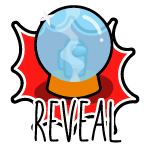
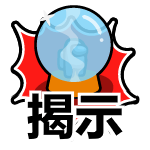
Update for v4.4.0

diff --git a/TheOtherRoles/CustomOptionHolder.cs b/TheOtherRoles/CustomOptionHolder.cs
@@ -766,32 +766,32 @@ namespace TheOtherRoles {
             huntedShieldNumber = CustomOption.Create(3026, Types.HideNSeekRoles, cs(Color.gray, "獵物盾數量"), 3f, 1f, 15f, 1f);
 
             // Prop Hunt General Options
-            propHuntMap = CustomOption.Create(4020, Types.PropHunt, cs(Color.yellow, "Map"), new string[] { "The Skeld", "Mira", "Polus", "Airship", "Submerged", "LI Map"}, null, true, onChange: ()=> { int map = propHuntMap.selection; if (map >= 3) map++; GameOptionsManager.Instance.currentNormalGameOptions.MapId = (byte)map;});
-            propHuntTimer = CustomOption.Create(4021, Types.PropHunt, cs(Color.yellow, "Timer In Min"), 5f, 1f, 30f, 0.5f);
-            propHuntUnstuckCooldown = CustomOption.Create(4011, Types.PropHunt, cs(Color.yellow, "Unstuck Cooldown"), 30f, 2.5f, 60f, 2.5f);
-            propHuntUnstuckDuration = CustomOption.Create(4012, Types.PropHunt, cs(Color.yellow, "Unstuck Duration"), 2f, 1f, 60f, 1f);
-            propHunterVision = CustomOption.Create(4006, Types.PropHunt, cs(Color.yellow, "Hunter Vision"), 0.5f, 0.25f, 2f, 0.25f);
-            propVision = CustomOption.Create(4007, Types.PropHunt, cs(Color.yellow, "Prop Vision"), 2f, 0.25f, 5f, 0.25f);
+            propHuntMap = CustomOption.Create(4020, Types.PropHunt, cs(Color.yellow, "地圖"), new string[] { "The Skeld", "Mira", "Polus", "Airship", "Submerged", "LI Map"}, null, true, onChange: ()=> { int map = propHuntMap.selection; if (map >= 3) map++; GameOptionsManager.Instance.currentNormalGameOptions.MapId = (byte)map;});
+            propHuntTimer = CustomOption.Create(4021, Types.PropHunt, cs(Color.yellow, "倒數計時(分)"), 5f, 1f, 30f, 0.5f);
+            propHuntUnstuckCooldown = CustomOption.Create(4011, Types.PropHunt, cs(Color.yellow, "出竅冷卻"), 30f, 2.5f, 60f, 2.5f);
+            propHuntUnstuckDuration = CustomOption.Create(4012, Types.PropHunt, cs(Color.yellow, "出竅持續時間"), 2f, 1f, 60f, 1f);
+            propHunterVision = CustomOption.Create(4006, Types.PropHunt, cs(Color.yellow, "獵人視野"), 0.5f, 0.25f, 2f, 0.25f);
+            propVision = CustomOption.Create(4007, Types.PropHunt, cs(Color.yellow, "物品視野"), 2f, 0.25f, 5f, 0.25f);
             // Hunter Options
-            propHuntNumberOfHunters = CustomOption.Create(4000, Types.PropHunt, cs(Color.red, "Number Of Hunters"), 1f, 1f, 5f, 1f, null, true);
-            hunterInitialBlackoutTime = CustomOption.Create(4001, Types.PropHunt, cs(Color.red, "Hunter Initial Blackout Duration"), 10f, 5f, 20f, 1f);
-            hunterMissCooldown = CustomOption.Create(4004, Types.PropHunt, cs(Color.red, "Kill Cooldown After Miss"), 10f, 2.5f, 60f, 2.5f);
-            hunterHitCooldown = CustomOption.Create(4005, Types.PropHunt, cs(Color.red, "Kill Cooldown After Hit"), 10f, 2.5f, 60f, 2.5f);
-            propHuntRevealCooldown = CustomOption.Create(4008, Types.PropHunt, cs(Color.red, "Reveal Prop Cooldown"), 30f, 10f, 90f, 2.5f);
-            propHuntRevealDuration = CustomOption.Create(4009, Types.PropHunt, cs(Color.red, "Reveal Prop Duration"), 5f, 1f, 60f, 1f);
-            propHuntRevealPunish = CustomOption.Create(4010, Types.PropHunt, cs(Color.red, "Reveal Time Punish"), 10f, 0f, 1800f, 5f);
-            propHuntAdminCooldown = CustomOption.Create(4022, Types.PropHunt, cs(Color.red, "Hunter Admin Cooldown"), 30f, 2.5f, 1800f, 2.5f);
-            propHuntFindCooldown = CustomOption.Create(4023, Types.PropHunt, cs(Color.red, "Find Cooldown"), 60f, 2.5f, 1800f, 2.5f);
-            propHuntFindDuration = CustomOption.Create(4024, Types.PropHunt, cs(Color.red, "Find Duration"), 5f, 1f, 15f, 1f);
+            propHuntNumberOfHunters = CustomOption.Create(4000, Types.PropHunt, cs(Color.red, "獵人數量"), 1f, 1f, 5f, 1f, null, true);
+            hunterInitialBlackoutTime = CustomOption.Create(4001, Types.PropHunt, cs(Color.red, "獵人初始暗幕持續時間"), 10f, 5f, 20f, 1f);
+            hunterMissCooldown = CustomOption.Create(4004, Types.PropHunt, cs(Color.red, "擊殺失手後冷卻"), 10f, 2.5f, 60f, 2.5f);
+            hunterHitCooldown = CustomOption.Create(4005, Types.PropHunt, cs(Color.red, "擊殺擊中後冷卻"), 10f, 2.5f, 60f, 2.5f);
+            propHuntRevealCooldown = CustomOption.Create(4008, Types.PropHunt, cs(Color.red, "揭示物品冷卻"), 30f, 10f, 90f, 2.5f);
+            propHuntRevealDuration = CustomOption.Create(4009, Types.PropHunt, cs(Color.red, "揭示物品持續時間"), 5f, 1f, 60f, 1f);
+            propHuntRevealPunish = CustomOption.Create(4010, Types.PropHunt, cs(Color.red, "揭示物品懲罰"), 10f, 0f, 1800f, 5f);
+            propHuntAdminCooldown = CustomOption.Create(4022, Types.PropHunt, cs(Color.red, "獵人管理表冷卻"), 30f, 2.5f, 1800f, 2.5f);
+            propHuntFindCooldown = CustomOption.Create(4023, Types.PropHunt, cs(Color.red, "搜尋冷卻"), 60f, 2.5f, 1800f, 2.5f);
+            propHuntFindDuration = CustomOption.Create(4024, Types.PropHunt, cs(Color.red, "搜尋持續時間"), 5f, 1f, 15f, 1f);
             // Prop Options
-            propBecomesHunterWhenFound = CustomOption.Create(4003, Types.PropHunt, cs(Palette.CrewmateBlue, "Props Become Hunters When Found"), false, null, true);
-            propHuntInvisEnabled = CustomOption.Create(4013, Types.PropHunt, cs(Palette.CrewmateBlue, "Invisibility Enabled"), true, null, true);
-            propHuntInvisCooldown = CustomOption.Create(4014, Types.PropHunt, cs(Palette.CrewmateBlue, "Invisibility Cooldown"), 120f, 10f, 1800f, 2.5f, propHuntInvisEnabled);
-            propHuntInvisDuration = CustomOption.Create(4015, Types.PropHunt, cs(Palette.CrewmateBlue, "Invisibility Duration"), 5f, 1f, 30f, 1f, propHuntInvisEnabled);
-            propHuntSpeedboostEnabled = CustomOption.Create(4016, Types.PropHunt, cs(Palette.CrewmateBlue, "Speedboost Enabled"), true, null, true);
-            propHuntSpeedboostCooldown = CustomOption.Create(4017, Types.PropHunt, cs(Palette.CrewmateBlue, "Speedboost Cooldown"), 60f, 2.5f, 1800f, 2.5f, propHuntSpeedboostEnabled);
-            propHuntSpeedboostDuration = CustomOption.Create(4018, Types.PropHunt, cs(Palette.CrewmateBlue, "Speedboost Duration"), 5f, 1f, 15f, 1f, propHuntSpeedboostEnabled);
-            propHuntSpeedboostSpeed = CustomOption.Create(4019, Types.PropHunt, cs(Palette.CrewmateBlue, "Speedboost Ratio"), 2f, 1.25f, 5f, 0.25f, propHuntSpeedboostEnabled);
+            propBecomesHunterWhenFound = CustomOption.Create(4003, Types.PropHunt, cs(Palette.CrewmateBlue, "物品變成獵人當被找到"), false, null, true);
+            propHuntInvisEnabled = CustomOption.Create(4013, Types.PropHunt, cs(Palette.CrewmateBlue, "隱形"), true, null, true);
+            propHuntInvisCooldown = CustomOption.Create(4014, Types.PropHunt, cs(Palette.CrewmateBlue, "隱形冷卻"), 120f, 10f, 1800f, 2.5f, propHuntInvisEnabled);
+            propHuntInvisDuration = CustomOption.Create(4015, Types.PropHunt, cs(Palette.CrewmateBlue, "隱形持續時間"), 5f, 1f, 30f, 1f, propHuntInvisEnabled);
+            propHuntSpeedboostEnabled = CustomOption.Create(4016, Types.PropHunt, cs(Palette.CrewmateBlue, "加速"), true, null, true);
+            propHuntSpeedboostCooldown = CustomOption.Create(4017, Types.PropHunt, cs(Palette.CrewmateBlue, "加速冷卻"), 60f, 2.5f, 1800f, 2.5f, propHuntSpeedboostEnabled);
+            propHuntSpeedboostDuration = CustomOption.Create(4018, Types.PropHunt, cs(Palette.CrewmateBlue, "加速持續時間"), 5f, 1f, 15f, 1f, propHuntSpeedboostEnabled);
+            propHuntSpeedboostSpeed = CustomOption.Create(4019, Types.PropHunt, cs(Palette.CrewmateBlue, "加速比率"), 2f, 1.25f, 5f, 0.25f, propHuntSpeedboostEnabled);
 
 
 

diff --git a/TheOtherRoles/Modules/CustomOptions.cs b/TheOtherRoles/Modules/CustomOptions.cs
@@ -1077,17 +1077,17 @@ namespace TheOtherRoles {
                 maxPage = 2;
                 switch (counter) {
                     case 0:
-                        hudString += "第 1 頁: 躲貓貓設定 \n\n" + buildOptionsOfType(CustomOption.CustomOptionType.HideNSeekMain, false);
+                        hudString += "第 1 頁：躲貓貓設定 \n\n" + buildOptionsOfType(CustomOption.CustomOptionType.HideNSeekMain, false);
                         break;
                     case 1:
-                        hudString += "第 2 頁: 躲貓貓職業設定 \n\n" + buildOptionsOfType(CustomOption.CustomOptionType.HideNSeekRoles, false);
+                        hudString += "第 2 頁：躲貓貓職業設定 \n\n" + buildOptionsOfType(CustomOption.CustomOptionType.HideNSeekRoles, false);
                         break;
                 }
             } else if (TORMapOptions.gameMode == CustomGamemodes.PropHunt) {
                 maxPage = 1;
                 switch (counter) {
                     case 0:
-                        hudString += "Page 1: Prop Hunt Settings \n\n" + buildOptionsOfType(CustomOption.CustomOptionType.PropHunt, false);
+                        hudString += "第 1 頁：物品獵殺設定 \n\n" + buildOptionsOfType(CustomOption.CustomOptionType.PropHunt, false);
                         break;
                 }
             } else {
@@ -1097,7 +1097,7 @@ namespace TheOtherRoles {
                         hudString += (!hideExtras ? "" : "第 1 頁：原版設定 \n\n") + vanillaSettings;
                         break;
                     case 1:
-                        hudString += "第 2 頁：The Other Roles設定 \n" + buildOptionsOfType(CustomOption.CustomOptionType.General, false);
+                        hudString += "第 2 頁：The Other Roles 設定 \n" + buildOptionsOfType(CustomOption.CustomOptionType.General, false);
                         break;
                     case 2:
                         hudString += "第 3 頁：職業與特殊標籤的機率 \n" + buildRoleOptions();

diff --git a/TheOtherRoles/Buttons.cs b/TheOtherRoles/Buttons.cs
@@ -2072,7 +2072,7 @@ namespace TheOtherRoles
                 CustomButton.ButtonPositions.lowerRowRight,
                 __instance,
                 KeyCode.F,
-                buttonText: "DISGUISE"               
+                buttonText: "偽裝"               
                 );
             propSpriteHolder = new GameObject("TORPropButtonPropSpritePreview");
             propSpriteRenderer = propSpriteHolder.AddComponent<SpriteRenderer>();
@@ -2096,7 +2096,7 @@ namespace TheOtherRoles
                 () => { PlayerControl.LocalPlayer.Collider.enabled = true;
                         propHuntUnstuckButton.Timer = propHuntUnstuckButton.MaxTimer;
                 },
-                buttonText: "UNSTUCK"
+                buttonText: "出竅"
                 );
 
             propHuntRevealButton = new CustomButton(
@@ -2146,7 +2146,7 @@ namespace TheOtherRoles
                     SoundEffectsManager.play("morphlingMorph");
                     propHuntInvisButton.Timer = propHuntInvisButton.MaxTimer;
                 },
-                buttonText: "INVIS"
+                buttonText: "隱形"
                 );
 
             propHuntSpeedboostButton = new CustomButton(
@@ -2170,7 +2170,7 @@ namespace TheOtherRoles
                     SoundEffectsManager.stop("timemasterShield");
                     propHuntSpeedboostButton.Timer = propHuntSpeedboostButton.MaxTimer;
                 },
-                buttonText: "BOOST"
+                buttonText: "加速"
                 );
 
             propHuntAdminButton = new CustomButton(
@@ -2223,7 +2223,7 @@ namespace TheOtherRoles
                     propHuntFindButton.Timer = propHuntFindButton.MaxTimer;
                     propHuntFindButton.isEffectActive = false;
                 },
-                buttonText: "FIND"
+                buttonText: "尋找"
                 );
 
             // Set the default (or settings from the previous game) timers / durations when spawning the buttons

diff --git a/TheOtherRoles/Patches/CreateOptionsPickerPatch.cs b/TheOtherRoles/Patches/CreateOptionsPickerPatch.cs
@@ -27,7 +27,7 @@ namespace TheOtherRoles.Patches {
                 __instance.GameModeText.text = "TOR 躲貓貓";
                 TORMapOptions.gameMode = CustomGamemodes.HideNSeek;
             } else if (gm == CustomGamemodes.PropHunt) {
-                __instance.GameModeText.text = "TOR Prop Hunt";
+                __instance.GameModeText.text = "TOR 物品獵殺";
                 TORMapOptions.gameMode = CustomGamemodes.PropHunt;
             }
             return false;
@@ -42,7 +42,7 @@ namespace TheOtherRoles.Patches {
             else if (TORMapOptions.gameMode == CustomGamemodes.HideNSeek) {
                 __instance.GameModeText.text = "TOR 躲貓貓";
             } else if (TORMapOptions.gameMode == CustomGamemodes.PropHunt) {
-                __instance.GameModeText.text = "TOR Prop Hunt";
+                __instance.GameModeText.text = "TOR 物品獵殺";
             }
         }
     }
@@ -66,7 +66,7 @@ namespace TheOtherRoles.Patches {
                     else {
                         chatLanguageButton.Text.text = i == 3 ? "TOR 賭徒" : "TOR 躲貓貓";
                         if (i == 5)
-                            chatLanguageButton.Text.text = "TOR Prop Hunt";
+                            chatLanguageButton.Text.text = "TOR 物品獵殺";
                     }
                     chatLanguageButton.Button.OnClick.RemoveAllListeners();
                     chatLanguageButton.Button.OnClick.AddListener((System.Action)delegate {

diff --git a/TheOtherRoles/TheOtherRoles.cs b/TheOtherRoles/TheOtherRoles.cs
@@ -1454,10 +1454,10 @@ namespace TheOtherRoles
                 float timeSinceDeath = ((float)(Medium.meetingStartTime - Medium.target.timeOfDeath).TotalMilliseconds);
                 var roleString = RoleInfo.GetRolesString(Medium.target.player, false);
                 if (randomNumber == 0) {
-                    if (!roleString.Contains("Impostor") && !roleString.Contains("Crewmate"))
+                    if (!roleString.Contains("偽裝者") && !roleString.Contains("船員"))
                         msg = "如果我的職業不是被拿走，這場遊戲中就少了 " + roleString + " 了。";
                     else
-                        msg = "I am a " + roleString + " without an other role."; 
+                        msg = "我是個沒有其他職業的 " + roleString + "。"; 
                 } else if (randomNumber == 1) msg = "我不是很確定，但我想是個 " + typeOfColor + " 色系的人殺了我。";
                 else if (randomNumber == 2) msg = "如果我數的正確，我是在會議開始 " + Math.Round(timeSinceDeath / 1000) + "秒 前死的。";
                 else msg = "殺我的殺手看起來像是 " + RoleInfo.GetRolesString(Medium.target.killerIfExisting, false, false, true) + "。";

diff --git a/TheOtherRoles/RoleInfo.cs b/TheOtherRoles/RoleInfo.cs
@@ -77,7 +77,7 @@ namespace TheOtherRoles
         public static RoleInfo hunter = new RoleInfo("獵人", Palette.ImpostorRed, Helpers.cs(Palette.ImpostorRed, "尋找並殺死所有船員"), "尋找並殺死所有船員", RoleId.Impostor);
         public static RoleInfo hunted = new RoleInfo("獵物", Color.white, "躲藏", "躲藏", RoleId.Crewmate);
 
-        public static RoleInfo prop = new RoleInfo("Prop", Color.white, "Disguise As An Object and Survive", "Disguise As An Object", RoleId.Crewmate);
+        public static RoleInfo prop = new RoleInfo("物品", Color.white, "偽裝成物件並存活", "偽裝成物件", RoleId.Crewmate);
 
 
 

diff --git a/TheOtherRoles/Patches/MainMenuPatch.cs b/TheOtherRoles/Patches/MainMenuPatch.cs
@@ -184,7 +184,7 @@ ugackMiner53 - Idea and core code for the Prop Hunt game mode</size>";
                 template.StartCoroutine(Effects.Lerp(0.1f, new System.Action<float>((p) => {
                     guesserButtonText.SetText("TOR 賭徒");
                     HideNSeekButtonText.SetText("TOR 躲貓貓");
-                    PropHuntButtonText.SetText("TOR Prop Hunt");
+                    PropHuntButtonText.SetText("TOR 物品獵殺");
                 })));
             }));
         }

diff --git a/TheOtherRoles/FakeGuid.cs b/TheOtherRoles/FakeGuid.cs
@@ -3,6 +3,6 @@ using System;
 namespace TheOtherRoles; 
 
 public class FakeGuid {
-    public static Guid guid = Guid.Parse("790D315C-F232-47D0-A0B9-0DFD7A6267CC");
+    public static Guid guid = Guid.Parse("D612C66F-4A2D-4A71-8F59-6AE1C540E684");
 }
 #endif

diff --git a/README.zh_tw.md b/README.zh_tw.md
@@ -22,7 +22,7 @@ This mod is not affiliated with Among Us or Innersloth LLC, and the content cont
 | [黑手黨員 (黑手黨)](#黑手黨) | [工程師](#工程師) | [縱火狂](#縱火狂) | [反傳送](#反傳送) | [特殊賭徒](#特殊賭徒) |
 | [守墓人 (黑手黨)](#黑手黨) | [警長](#警長) | [豺狼](#豺狼) | [決勝者](#決勝者) | [躲貓貓](#躲貓貓) |
 | [百變怪](#百變怪) | [警員](#警員) | [跟班](#跟班) | [誘餌](#誘餌) | [原版捉迷藏](https://www.innersloth.com/new-game-mode-hide-n-seek-is-here-emergency-meeting-35/) |
-| [魔術師](#魔術師) | [點燈人](#點燈人) | [禿鷲](#禿鷲) | [戀人](#戀人) |
+| [魔術師](#魔術師) | [點燈人](#點燈人) | [禿鷲](#禿鷲) | [戀人](#戀人) | [物品獵殺](#物品獵殺)|
 | [吸血鬼](#吸血鬼) | [偵探](#偵探) | [律師](#律師) | [墨鏡](#墨鏡) |
 | [抹除者](#抹除者) | [時間管理大師](#時間管理大師) | [檢察官](#檢察官) | [迷你](#迷你) |
 | [詭騙師](#詭騙師) | [醫生](#醫生) | [原告](#原告) | [VIP](#vip) |
@@ -125,7 +125,11 @@ This mod is not affiliated with Among Us or Innersloth LLC, and the content cont
 # Changelog
 <details>
   <summary>Click to show the Changelog</summary>
-  
+
+**Version 4.4.0**
+- Added a new gamemode, PropHunt. Players can disguise as objects on the map
+- Changed Lighter and Darker colors: L/D are no longer random, but rather assigned in alternating order.
+
 **Version 4.3.4**
 - Updated BepInEx dependency to 671
 - Fixed compatibility to Submerged (not thouroughly tested)
@@ -797,7 +801,8 @@ docker run -d -p 22023:22023/udp --env IMPOSTOR_AntiCheatEnabled=false --env IMP
 [Crowded-Mod](https://github.com/CrowdedMods/CrowdedMod) - Our implementation for 10+ player lobbies were inspired by the one from the **Crowded Mod Team**\
 [Goose-Goose-Duck](https://store.steampowered.com/app/1568590/Goose_Goose_Duck) - Idea for the Vulture role came from **Slushiegoose**\
 [TheEpicRoles](https://github.com/LaicosVK/TheEpicRoles) - Idea for the first kill shield (partly) and the tabbed option menu (fully + some code), by **LaicosVK** **DasMonschta** **Nova**\
-[Ninja](#忍者), [Thief](#小偷), [Lawyer](#律師) / [Pursuer](#原告), [Deputy](#警員), [Portalmaker](#傳送師), [Guesser Modifier](#特殊賭徒) - Idea: [K3ndo](https://github.com/K3ndoo) ; Developed by [Gendelo](https://github.com/gendelo3) & [Mallöris](https://github.com/Mallaris)
+[Ninja](#忍者), [Thief](#小偷), [Lawyer](#律師) / [Pursuer](#原告), [Deputy](#警員), [Portalmaker](#傳送師), [Guesser Modifier](#特殊賭徒) - Idea: [K3ndo](https://github.com/K3ndoo) ; Developed by [Gendelo](https://github.com/gendelo3) & [Mallöris](https://github.com/Mallaris) \
+[dMiner53](https://github.com/ugackMiner53/PropHunt) - Idea and core code for the Prop Hunt game mode
 
 # 設定
 該模組在 Among Us 添加了一些新設定(除了職業設定)：
@@ -886,6 +891,7 @@ Here are a few instructions, on how to create a custom hat:
 - **Submission:** If you got a hat design, you can submit it on our [Discord server](https://discord.gg/77RkMJHWsM). We'll look at all the hats and add all the good ones to the game.
 
 # 顏色
+Note: Lighter and Darker colors are no longer based on the players color. Instead they are assigned alternatingly, s.t. they are always balanced in a lobby.
 ![TOR Colors](./Images/TOR_colors.jpg)
 
 # 職業
@@ -2064,21 +2070,61 @@ VIP會在他死時向所有人發出類似於靈媒閃光的閃爍。\
 - 如果獵人嘗試殺死啟動時間之盾的玩家，則只有獵人會被回溯。
 
 ### 遊戲選項
-| General | 描述 | 獵人 | 描述 | 獵物 | 描述 |
+| 常規 | 描述 | 獵人 | 描述 | 獵物 | 描述 |
 |----------|:-------------:|----------|:-------------:|----------|:-------------:|
 | 地圖 | -                                | 獵人點燈冷卻 | -                  | 獵物盾冷卻| -
 | 獵人數量 | -                  | 獵人點燈持續時間 | -                  | 獵物盾持續時間 | -
 | 殺人冷卻時間 | -                      | 獵人點燈視野 | -                    | 獵物回溯的時間 | -
 | 獵人視野 | -                      | 獵人點燈懲罰(秒) | -             | 獵物盾數量 | -
 | 獵物視野 | -                      | 獵人管理表冷卻 | -
-| 普通任務數 | -                       | 獵人管理表持續時間 | -
-| 短任務數 | -                        | 獵人管理表懲罰(秒) | -
-| 長任務數 | -                         | 獵人箭頭冷卻 | -
-| 倒數計時(分) | -                       | 獵人箭頭持續時間 | -
+|  | -                       | 獵人管理表持續時間 | -
+|  | -                        | 獵人管理表懲罰(秒) | -
+|  | -                         | 獵人箭頭冷卻 | -
+|  | -                       | 獵人箭頭持續時間 | -
 | 任務獲勝 | -               | 獵人箭頭懲罰(秒) | -
 | 完成任務獎勵(秒) | -
 | 啟用破壞 | -
 | 獵人釋放等待時間 | -
+
+## 物品獵殺
+**Prop-Gamemode** 是個獨立的遊戲模式，獵人必須找到偽裝的玩家("物品")。\
+仍然活著的獵人和道具會在左下角向所有人顯示(類似於縱火犯顯示)。\
+遊戲開始時，獵人的移動將被禁用 x 秒(根據選項設定)，並且螢幕將變黑。\
+每輪都有時間限制，如果倒數計時耗盡且至少有一個道具還活著，則剩餘的道具獲勝。\
+如果獵人在計時器耗盡之前殺死所有玩家，則獵人獲勝。\
+當道具死亡，他們加入獵人團隊或死亡(設定)。
+
+#### 共通能力:
+- 出竅: 按下此按鈕，你可以短暫穿過牆壁。這是必要的，因為物品有時會因為碰撞改變而卡在牆裡。不要用它來作弊！
+
+#### 獵人能力:
+- 揭示: 隨機玩家當前物品向所有玩家顯示 x 秒 (根據選項設定)。倒數計時將減少 *懲罰* 秒。
+- 攜帶式管理表(像是駭客) - 普通管理表共享冷卻
+- 尋找: 顯示原版 HideNSeek 中的危險等級計 x 秒。獵人越接近附近的物品，危險等級就越高。
+#### 物品能力:
+- 隱形: 變成一個偽裝的道具，隱形 x 秒。
+- 加速: 移動加速 x 秒。
+
+**NOTE:**
+- 舉報按鈕亮起，但無法按下。
+- 獵人可使用通風口
+- 擊殺按鈕和通風口按鈕永久啟用，因此你無法使用它們來判斷附近是否有道具
+- 擊殺按鈕總是可以被按下，但如果附近沒有道具，你將失手。擊中和失手的冷卻時間可以分別設定。
+
+
+### 遊戲選項
+| 常規 | 描述 | 獵人 | 描述 | 獵物 | 描述 |
+|----------|:-------------:|----------|:-------------:|----------|:-------------:|
+| 地圖 | -                     | 獵人數量 | -                  | 物品變成獵人當被找到 | -
+| 倒數計時(分) | -            | 初始暗幕持續時間 | -          | 隱形 | -
+| 出竅冷卻 | -        | 擊殺失手後冷卻 | -           | 隱形冷卻 | -
+| 出竅持續時間 | -        | 擊殺擊中後冷卻 | -            | 隱形持續時間 | -
+| 獵人視野 | -           | 揭示物品冷卻 | -               | 加速 | -
+| 物品視野 | -             | 揭示物品持續時間 | -               | 加速冷卻 | -
+|  | -             | 揭示物品懲罰 | 倒數計時扣除量 | 加速持續時間 | - 
+|  | -                         |  獵人管理表冷卻 | - | 加速比率 | 速度乘以的倍率
+|  | -                       | 搜尋冷卻 | -
+|  | -               | 搜尋持續時間 | -
 
 ## GCERROR
 If the error message "Fatal Error in GC - Collecting from unknown thread" stops you from playing the game, you can now disable the mod-updater, which causes this error.
